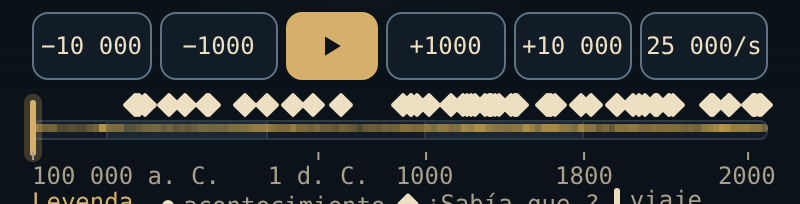
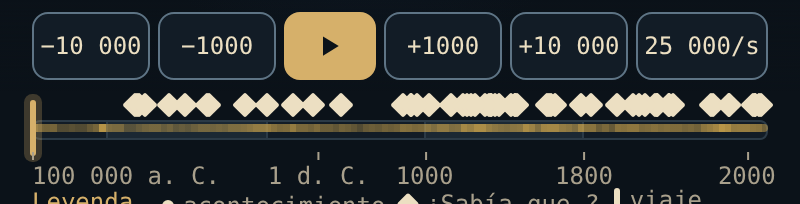
Tidsreglaget: bredare hastighetsknapp i förhistorien, prov i egen kontext och nya skärmbilder (#1101)
- "100 000/s" (fart 100 vid 100 000 f.Kr.) är 65 px i 12 px text och sticker 1 px ut ur en knapp på 64 px: .controls.prehistory .speed får 70 px.
- Webbläsarprovet kör i en egen kontext med den bredaste farten sparad, så att det varken beror på andra prov eller lämnar sparad fart åt dem.
- Skärmbilderna i docs/ux-review/reglagets-texter-1101/ tagna om.

Claude-Session: https://claude.ai/code/session_019xNoaCB1MahHDo2AS5QtEE

diff --git a/css/style.css b/css/style.css
@@ -2135,7 +2135,7 @@ details.used-by summary:hover { color: var(--parchment); }
      rymmer "−10 000" i vanlig textstorlek (ingen text under 12 px, #1309); piltangenterna och PageUp/PageDown finns kvar */
   .controls.prehistory .step:is([data-step="-100"], [data-step="100"]) { display: none; }
   .controls.prehistory .step { max-width: 66px; }
-  .controls.prehistory .speed { flex-basis: 64px; }
+  .controls.prehistory .speed { flex-basis: 70px; } /* "100 000/s" (fart 100 vid 100 000 f.Kr.) är 65 px i 12 px text (#1101) */
   .track { height: 48px; }
   /* Ett krig kan ha många namn på kort avstånd. På mobil visar vi namnet närmast
      reglaget; alla band behåller full beskrivning i titel och tillgänglighetsnamn. */
